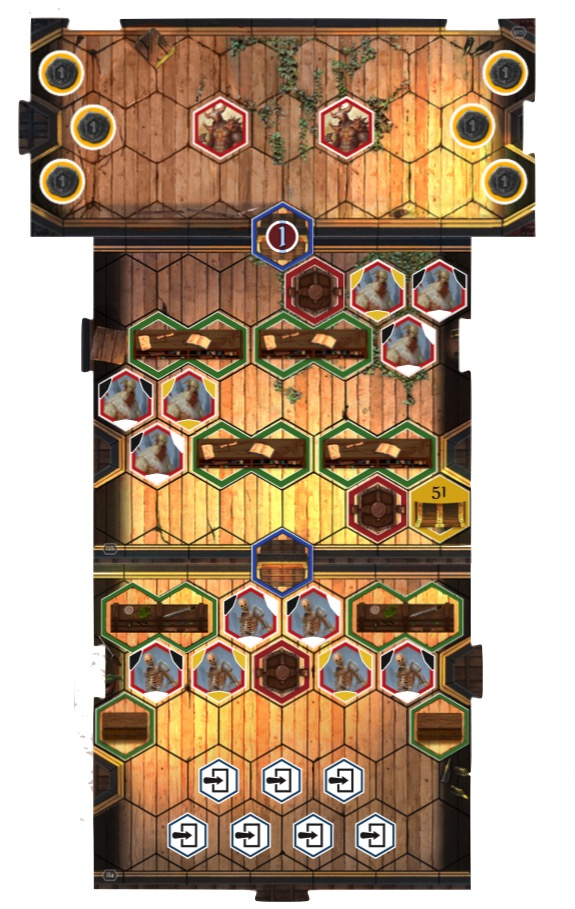
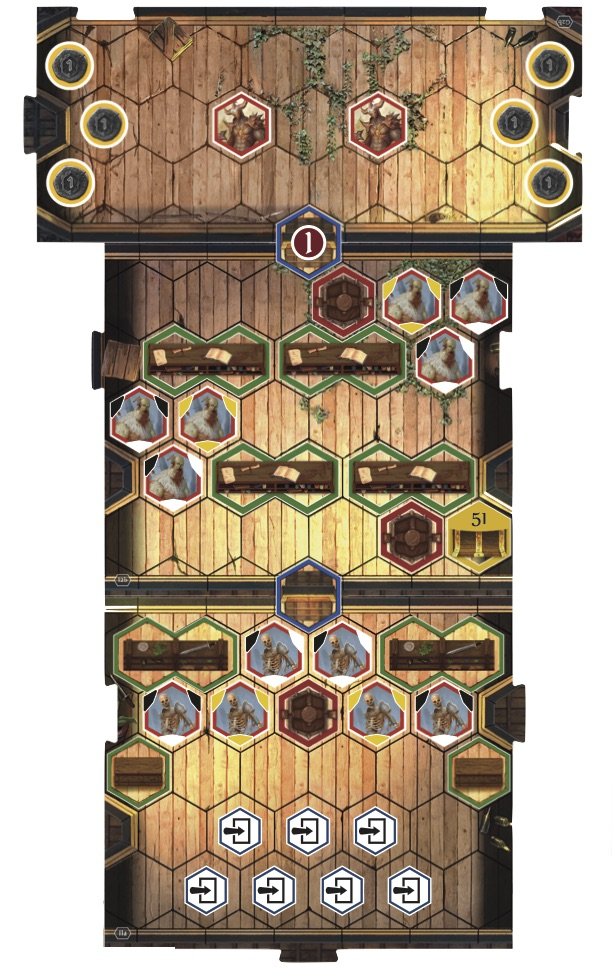
04-02-2018 adventures

diff --git a/_posts/2018-04-02-scenario_14.md b/_posts/2018-04-02-scenario_14.md
@@ -1,0 +1,95 @@
+---
+layout: default
+title: "Scenario #14: Frozen Hollow"
+tags: scenario
+monsters: ['hound', 'living_spirit', 'frost_demon']
+map: 'scenario_map_14'
+---
+
+# #14 Frozen Hollow
+{: .gloomfont}
+
+__Requirements:__ None <br>
+__Goal:__ Kill all enemies <br>
+__Global Achievement:__ The Power of Enhancement <br>
+
+***
+
+## Introduction
+
+An enchanter has been called for, so an enchanter must be found.
+
+Following reports of an Aesther in the Boiler District, you find yourself standing
+before an abandoned and decrepit tavern: the Crooked Bone. Opening the door, the
+inside looks exactly as the outside advertised: spiderwebs, splintered stools, and
+dusty, broken glass.
+
+Stepping past the threshold, a translucent female suddenly appears before you.
+“Why have you come to this place, mercenaries? Your presence is unwanted, and you
+are disrupting my research.”
+
+You quickly explain why you have come and the woman’s frown deepens.
+
+“‘Oh, look at the Aesther woman. She can fulfill all our wishes. All she has to do
+is wave her hands and our wildest dreams will come true.’” She sighs in frustration
+and actually does wave her hands. “Leave me in peace.”
+
+You don’t move. She stares.
+
+“Well, instead of disrupting, then maybe you could help. Scratch my back, maybe I’ll
+scratch yours. That’s how these things work, right?” The woman turns and walks towards
+a destroyed set of stairs, but after a few steps, she fades away entirely.
+
+“I need an orb from the Frozen Hollow in the Copperneck Mountains.” The woman’s voice
+comes from directly in front of you, as if she hadn’t moved at all. “Bring it back to
+me and I may help you.”
+
+A map drops at your feet. “My name is Hail by the way. Do not come back without the orb.”
+
+The map is easy to follow. Deep in the Copperneck Mountains, obscured by snow drifts, you
+find the opening to a dark, narrow cave. The wolf tracks around the entrance are troubling,
+but, with a firm resolve, you enter.
+
+## Conclusion
+
+With the last of your adversaries dead, you approach the back of the chamber, where a small
+blue sphere floats above the floor. You slowly reach out your hand and find the orb cold
+to the touch. With a firm grip on it, the temperature is almost unbearable, but you quickly
+stash it into your pack and make your way back to the Crooked Bone.
+
+You enter the abandoned tavern and call out to Hail. With no response, you wander around,
+observing the chaotic mess around you. You wonder how she gets any work done in this
+environment. As you approach the counter, Hail appears before you, holding the orb.
+
+“Very interesting.” She doesn’t seem to notice you at all. “A rift in our plane, somehow
+contained within a spherical barrier. Good thing you didn’t break this on your way back.
+You easily could have been sucked into a realm of pure frost and been frozen solid before
+you had time to breathe. Or something worse could have happened.
+
+“It’s just so confounding. Who would have the power to do this?” Hail takes a step to the
+left and disappears again.
+
+You wait for what feels like hours, refusing to sit on the few stools that haven’t yet fallen
+apart. You call out occasionally, but receive no response.
+
+“Oh, you’re still here.” You turn around to see Hail in the middle of the room. “Good, I’d
+like to experiment on you if it’s all right.” She reaches out to you and you stumble backward,
+falling over a table that splinters into hundreds of pieces.
+
+“Oh, don’t be a baby about it. I’m pretty sure it will end well.”
+
+Hail explains that she wants to try to bring forth raw power from another plane and contain it in
+a small orb that could give enhanced powers to anyone possessing it. The containment process,
+however, requires a lot of gold metal.
+
+“Now that you have helped me in my endeavors, I suppose I should return the favor,” Hail sighs.
+“So what was it exactly that you wanted?” (#7), (#19), (#31), (#43)
+
+
+***
+
+{% include map.html %}
+{% include monsters.html %}
+
+
+

diff --git a/global/index.md b/global/index.md
@@ -12,15 +12,16 @@ title: Global
 # <a name="Unlocked_Locations"></a>Unlocked Locations
 {: .gloomfont}
 
+<span class="unavailable">** Unmet Requirements</span>
 * [#01 Black Barrow]({{ site.baseurl }}{% post_url 2018-03-05-scenario_01 %}) <span class="map_loc">(G-10)</span>
-* [#02 Barrow Lair]({{ site.baseurl }}{% post_url 2018-03-12-scenario_02 %}) <span class="map_loc">(G-11)</span> <span class="available">First Steps (Party)</span>
-* [#03 Inox Encampment]({{ site.baseurl }}{% post_url 2018-03-19-scenario_03 %}) <span class="map_loc">(G-3)</span> <span class="available">The Merchant Flees (Global)</span>
+* [#02 Barrow Lair]({{ site.baseurl }}{% post_url 2018-03-12-scenario_02 %}) <span class="map_loc">(G-11)</span>
+* [#03 Inox Encampment]({{ site.baseurl }}{% post_url 2018-03-19-scenario_03 %}) <span class="map_loc">(G-3)</span>
 * #04 Crypt of the Damned <span class="map_loc">(C-11)</span>
-* #07 Vibrant Grotto <span class="map_loc">(C-12)</span>  <span class="unavailable">The Power of Enchantment (Global)</span>
+* #07 Vibrant Grotto <span class="map_loc">(C-12)</span>
 * [#08 Gloomhaven Warehouse]({{ site.baseurl }}{% post_url 2018-03-26-scenario_08 %}) <span class="map_loc">(C-18)</span>
 * #09 Diamond Mine <span class="map_loc">(L-2)</span> <span class="unavailable">The Merchant Flees (Global) INCOMPLETE</span>
 * #13 Temple of the Seer <span class="map_loc">(N-3)</span>
-* #14 Frozen Hollow <span class="map_loc">(C-10)</span>
+* [#14 Frozen Hollow]({{ site.baseurl }}{% post_url 2018-04-02-scenario_14 %}) <span class="map_loc">(C-10)</span>
 * #64 Underwater Lair <span class="map_loc">(K-16)</span> <span class="unavailable">Water-Breathing (Global)</span>
 * #68 Toxic Moor <span class="map_loc">(N-8)</span>
 * #81 Temple of the Eclipse <span class="map_loc">(O-2)</span>
@@ -60,6 +61,7 @@ title: Global
 
 *  City Rule: Militaristic
 *  The Merchant Flees
+*  The Power of Enhancement
 
 
 # <a name="Treasure"></a>Treasure
@@ -68,5 +70,6 @@ title: Global
 | Number | Description          | Effect              | Location    |
 | :----- | :------------------- | :------------------ | :---------- |
 | 07     | Random Side Scenario | #64 Underwater Lair | Scenario 01 |
+| 26     | Gain 20 gold         |                     | Scenario 14 |
 | 51     | Random Side Scenario | #68 Toxic Moor      | Scenario 08 |
 | 67     | Gain 10 gold         |                     | Scenario 02 |

diff --git a/_posts/2018-04-02-road_event_18.md b/_posts/2018-04-02-road_event_18.md
@@ -1,0 +1,38 @@
+---
+layout: default
+title: "Road Event #18"
+tags: road-event
+---
+
+## Road Event #18
+{: .gloomfont}
+
+The road contains many dangers, and chief among them are the barbaric tribes
+of Inox that inhabit the wilderness around the city.  This is why your heart
+sinks when you see a mounted group of them ride up to you and surround your
+party.
+
+"Ah, agents of that wretched monstrosity you call a town," the largest of the
+Inox says as he looks down at you.  "Tell me, scum.  What business do you have
+out here on my land?  Have those fools sent you out to murder more of my people?"
+
+
+## Option A
+
+Attempt to come to a peaceful resolution.
+
+## Option B
+
+Attack the insulting, contemptuous Inox.
+
+***
+
+## B
+
+Enraged by the Inox's insulting tongue, you take up your weapons and attack.
+Even the Inox were not expecting a move so bold.  The fight is brutal, especially
+with your enemy mounted, but after felling a number of their warriors,
+the rest retreat.
+
+<strong>All start scenario with 3 damage.</strong>
+

diff --git a/_posts/2018-04-02-city_event_25.md b/_posts/2018-04-02-city_event_25.md
@@ -1,0 +1,34 @@
+---
+layout: default
+title: "City Event #25"
+tags: city-event
+---
+
+## City Event #25
+{: .gloomfont}
+
+On a trip to the Coin District, you catch sight of an old, wirey Valrath carrying a large,
+intricate vase out his front door.
+
+As you get closer, the Valrath begins to struggle with the vase, sweat pouring from his brow.
+Under the strain, the Valrath loses his balance, and the fragile vase topples downward as he
+yells a string of curses.
+
+## Option A
+
+Attempt to catch the vase.
+
+## Option B
+
+With no time to react, watch the vase fall to the ground.
+
+***
+
+## A
+
+You race forward and wrap your arms around the vase.  You manage to keep grip of it, preventing
+tragedy.  The Valrath is relieved and offers to pay you for your trouble if you carry it
+the rest of the way.
+
+<strong>Gain 5 collective gold.</strong>
+

diff --git a/_posts/2018-03-05-campaign.md b/_posts/2018-03-05-campaign.md
@@ -51,3 +51,9 @@ So your target is the Black Barrow. Sounds like a lovely place.
 1. [City Event #17]({{ site.baseurl }}{% post_url 2018-03-26-city_event_17 %})
 1. [Road Event #10]({{ site.baseurl }}{% post_url 2018-03-26-road_event_10 %})
 1. [Scenario #8 Gloomhaven Warehouse]({{ site.baseurl }}{% post_url 2018-03-26-scenario_08 %}) <span class="map_loc">(C-18)</span>
+
+### May 02, 2018
+
+1. [City Event #25]({{ site.baseurl }}{% post_url 2018-04-02-city_event_25 %})
+1. [Road Event #18]({{ site.baseurl }}{% post_url 2018-04-02-road_event_18 %})
+1. [Scenario #14 Frozen Hollow]({{ site.baseurl }}{% post_url 2018-04-02-scenario_14 %}) <span class="map_loc">(C-10)</span>
